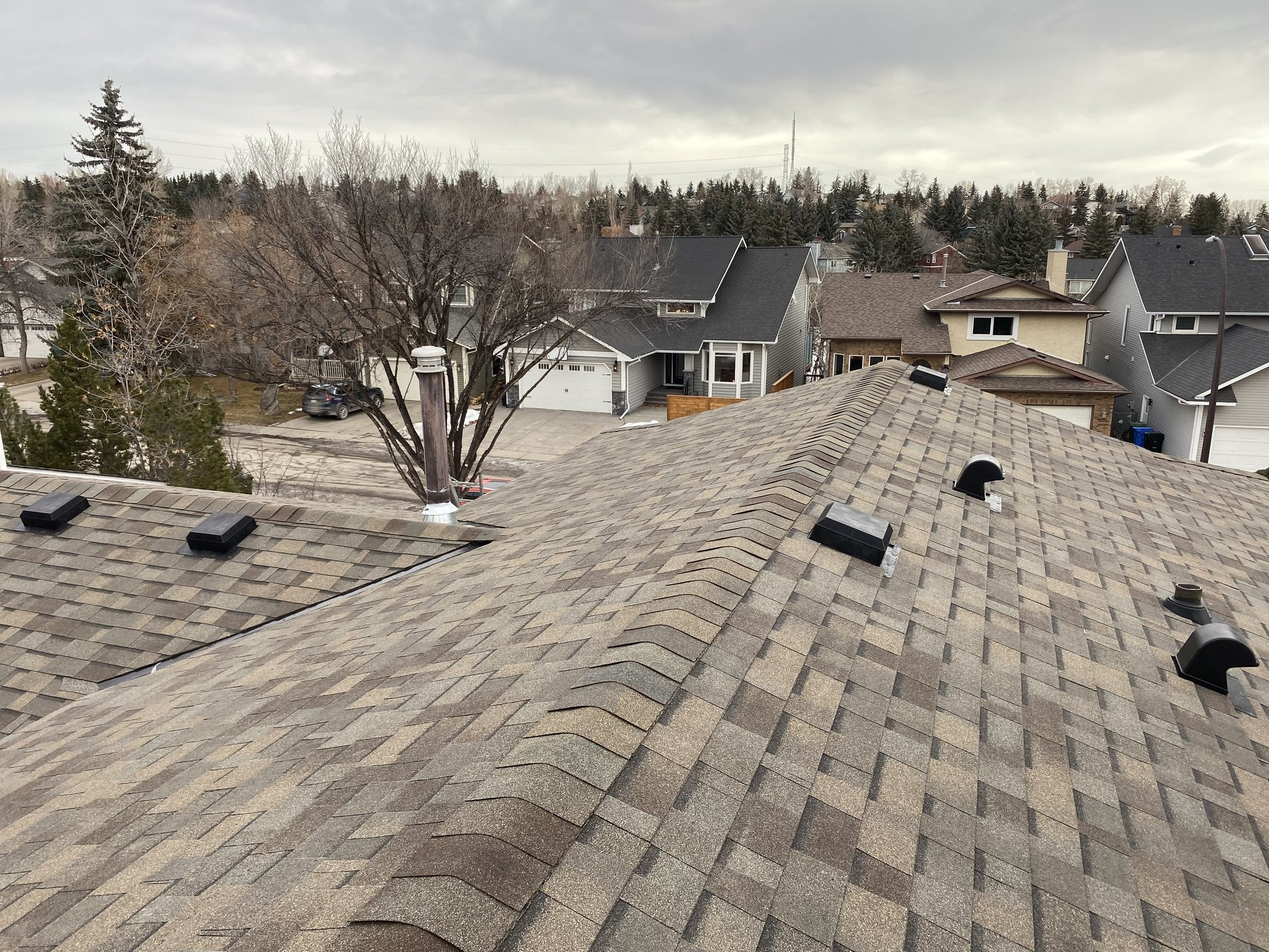
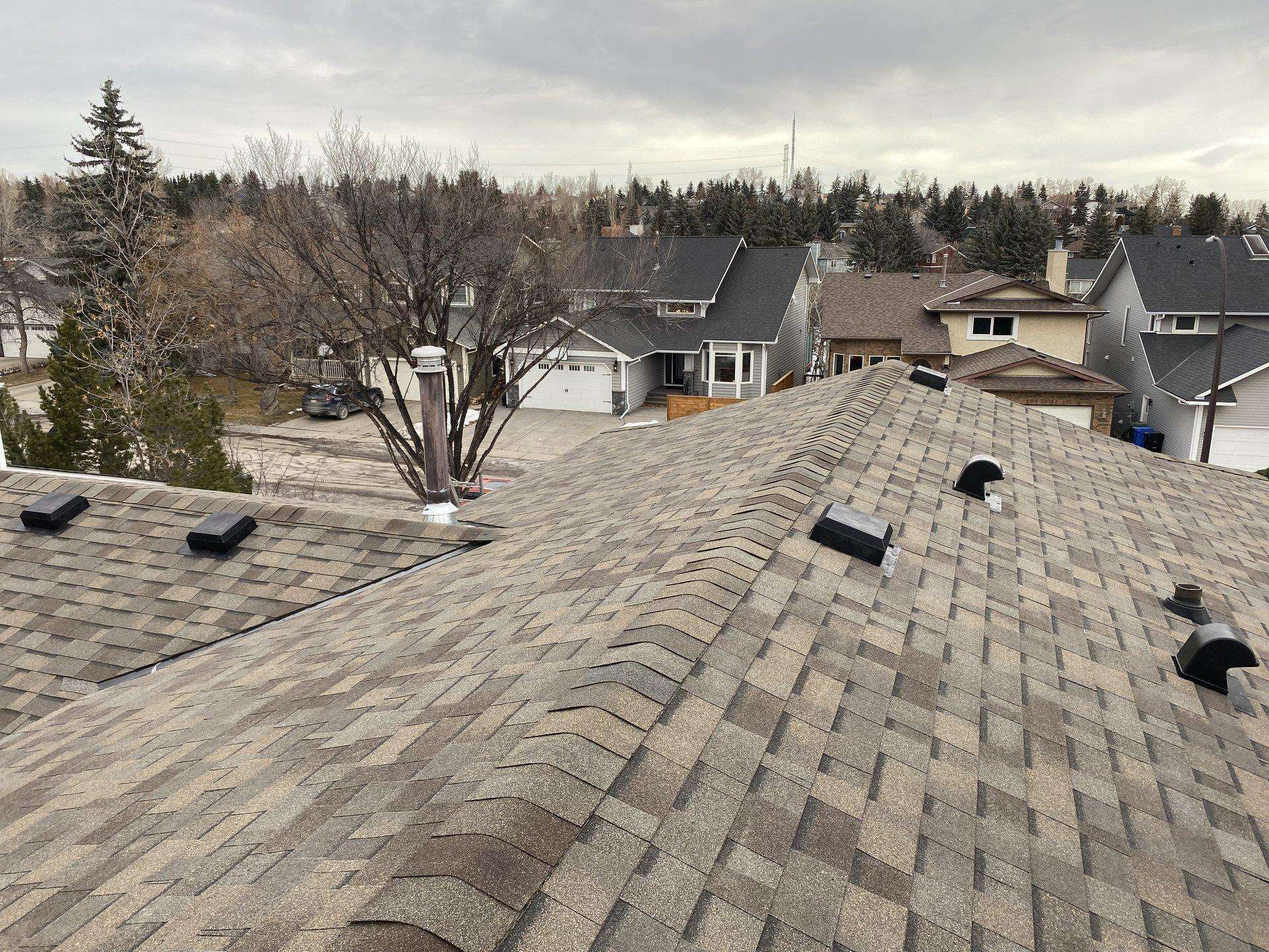
SEO + performance fixes
- index.html: lang="en-CA", remove broken GTM/GA placeholder scripts,
  fix "BBB A+ rated" -> "BBB A Rating" (matches site copy), add
  og:url, og:site_name, og:locale, og:image:width/height
- public/og-image.png: generate 1200x630 banner from logo-full.png
  (53KB) so social shares (FB/LinkedIn/Twitter/iMessage) have a real
  preview image instead of broken
- App.tsx: lazy-load all routes via React.lazy + Suspense.
  Initial JS bundle dropped from 789KB to 329KB (-58%)
- Image optimization via jpegoptim + oxipng:
  hero-roofing.jpg 882KB -> 635KB
  calgary-homes.jpg 573KB -> 433KB
  red-seal-badge.png 258KB -> 197KB (used in header on every page)
  og-image.png 88KB -> 53KB
  Other photos -14% to -35% with no visible quality loss

diff --git a/src/App.tsx b/src/App.tsx
@@ -1,21 +1,23 @@
+import { lazy, Suspense } from "react";
 import { Toaster } from "@/components/ui/toaster";
 import { Toaster as Sonner } from "@/components/ui/sonner";
 import { TooltipProvider } from "@/components/ui/tooltip";
 import { QueryClient, QueryClientProvider } from "@tanstack/react-query";
 import { BrowserRouter, Routes, Route, Navigate } from "react-router-dom";
-import Index from "./pages/Index";
-import Services from "./pages/Services";
-import ServiceAreas from "./pages/ServiceAreas";
-import ServiceAreaLanding from "./pages/ServiceAreaLanding";
-import Estimate from "./pages/Estimate";
-import FAQ from "./pages/FAQ";
-import About from "./pages/About";
-import Contact from "./pages/Contact";
-import Privacy from "./pages/Privacy";
-import Terms from "./pages/Terms";
-import QRLanding from "./pages/QRLanding";
-import BookOnline from "./pages/BookOnline";
-import NotFound from "./pages/NotFound";
+
+const Index = lazy(() => import("./pages/Index"));
+const Services = lazy(() => import("./pages/Services"));
+const ServiceAreas = lazy(() => import("./pages/ServiceAreas"));
+const ServiceAreaLanding = lazy(() => import("./pages/ServiceAreaLanding"));
+const Estimate = lazy(() => import("./pages/Estimate"));
+const FAQ = lazy(() => import("./pages/FAQ"));
+const About = lazy(() => import("./pages/About"));
+const Contact = lazy(() => import("./pages/Contact"));
+const Privacy = lazy(() => import("./pages/Privacy"));
+const Terms = lazy(() => import("./pages/Terms"));
+const QRLanding = lazy(() => import("./pages/QRLanding"));
+const BookOnline = lazy(() => import("./pages/BookOnline"));
+const NotFound = lazy(() => import("./pages/NotFound"));
 
 const queryClient = new QueryClient();
 
@@ -24,29 +26,37 @@ if ("scrollRestoration" in window.history) {
   window.history.scrollRestoration = "manual";
 }
 
+const RouteFallback = () => (
+  <div className="min-h-dvh flex items-center justify-center bg-background">
+    <div className="h-8 w-8 rounded-full border-2 border-accent border-t-transparent animate-spin" />
+  </div>
+);
+
 const App = () => (
   <QueryClientProvider client={queryClient}>
     <TooltipProvider>
       <Toaster />
       <Sonner />
       <BrowserRouter>
-        <Routes>
-          <Route path="/" element={<Index />} />
-          <Route path="/services" element={<Services />} />
-          <Route path="/service-areas" element={<ServiceAreas />} />
-          <Route path="/service-areas/:areaSlug" element={<ServiceAreaLanding />} />
-          <Route path="/estimate" element={<Estimate />} />
-          <Route path="/book" element={<BookOnline />} />
-          <Route path="/booking" element={<Navigate to="/book" replace />} />
-          <Route path="/faq" element={<FAQ />} />
-          <Route path="/about" element={<About />} />
-          <Route path="/contact" element={<Contact />} />
-          <Route path="/privacy" element={<Privacy />} />
-          <Route path="/terms" element={<Terms />} />
-          <Route path="/go/:slug" element={<QRLanding />} />
-          {/* ADD ALL CUSTOM ROUTES ABOVE THE CATCH-ALL "*" ROUTE */}
-          <Route path="*" element={<NotFound />} />
-        </Routes>
+        <Suspense fallback={<RouteFallback />}>
+          <Routes>
+            <Route path="/" element={<Index />} />
+            <Route path="/services" element={<Services />} />
+            <Route path="/service-areas" element={<ServiceAreas />} />
+            <Route path="/service-areas/:areaSlug" element={<ServiceAreaLanding />} />
+            <Route path="/estimate" element={<Estimate />} />
+            <Route path="/book" element={<BookOnline />} />
+            <Route path="/booking" element={<Navigate to="/book" replace />} />
+            <Route path="/faq" element={<FAQ />} />
+            <Route path="/about" element={<About />} />
+            <Route path="/contact" element={<Contact />} />
+            <Route path="/privacy" element={<Privacy />} />
+            <Route path="/terms" element={<Terms />} />
+            <Route path="/go/:slug" element={<QRLanding />} />
+            {/* ADD ALL CUSTOM ROUTES ABOVE THE CATCH-ALL "*" ROUTE */}
+            <Route path="*" element={<NotFound />} />
+          </Routes>
+        </Suspense>
       </BrowserRouter>
     </TooltipProvider>
   </QueryClientProvider>

diff --git a/index.html b/index.html
@@ -1,17 +1,22 @@
 <!doctype html>
-<html lang="en">
+<html lang="en-CA">
   <head>
     <meta charset="UTF-8" />
     <meta name="viewport" content="width=device-width, initial-scale=1.0" />
     <title>Duckbill Roofing & Waterproofing | Calgary's Trusted Roofers</title>
-    <meta name="description" content="Expert roofing and waterproofing in Calgary, Alberta. BBB A+ rated with 5-year workmanship warranty. Get your free estimate today!" />
+    <meta name="description" content="Expert roofing and waterproofing in Calgary, Alberta. BBB A Rating with 5-year workmanship warranty. Get your free estimate today!" />
     <meta name="author" content="Duckbill Roofing & Waterproofing" />
     <meta name="keywords" content="roofing Calgary, waterproofing Calgary, roof repair Calgary, residential roofing Alberta, flat roof waterproofing" />
-    
+
     <meta property="og:title" content="Duckbill Roofing & Waterproofing | Calgary's Trusted Roofers" />
-    <meta property="og:description" content="Expert roofing and waterproofing in Calgary, Alberta. BBB A+ rated with 5-year workmanship warranty. Get your free estimate today!" />
+    <meta property="og:description" content="Expert roofing and waterproofing in Calgary, Alberta. BBB A Rating with 5-year workmanship warranty. Get your free estimate today!" />
     <meta property="og:type" content="website" />
+    <meta property="og:url" content="https://duckbillroofing.ca/" />
+    <meta property="og:site_name" content="Duckbill Roofing & Waterproofing" />
+    <meta property="og:locale" content="en_CA" />
     <meta property="og:image" content="https://duckbillroofing.ca/og-image.png" />
+    <meta property="og:image:width" content="1200" />
+    <meta property="og:image:height" content="630" />
 
     <link rel="icon" type="image/x-icon" href="/favicon.ico" />
     <link rel="icon" type="image/png" sizes="32x32" href="/favicon-32.png" />
@@ -21,29 +26,9 @@
     <meta name="twitter:card" content="summary_large_image" />
     <meta name="twitter:site" content="@DuckbillRoofing" />
     <meta name="twitter:image" content="https://duckbillroofing.ca/og-image.png" />
-
-    <!-- Google Tag Manager — replace GTM-XXXXXXX with your container ID -->
-    <script>(function(w,d,s,l,i){w[l]=w[l]||[];w[l].push({'gtm.start':
-    new Date().getTime(),event:'gtm.js'});var f=d.getElementsByTagName(s)[0],
-    j=d.createElement(s),dl=l!='dataLayer'?'&l='+l:'';j.async=true;j.src=
-    'https://www.googletagmanager.com/gtm.js?id='+i+dl;f.parentNode.insertBefore(j,f);
-    })(window,document,'script','dataLayer','GTM-XXXXXXX');</script>
-
-    <!-- GA4 — replace G-XXXXXXXXXX with your measurement ID -->
-    <script async src="https://www.googletagmanager.com/gtag/js?id=G-XXXXXXXXXX"></script>
-    <script>
-      window.dataLayer = window.dataLayer || [];
-      function gtag(){dataLayer.push(arguments);}
-      gtag('js', new Date());
-      gtag('config', 'G-XXXXXXXXXX');
-    </script>
   </head>
 
   <body>
-    <!-- Google Tag Manager (noscript) — same container ID -->
-    <noscript><iframe src="https://www.googletagmanager.com/ns.html?id=GTM-XXXXXXX"
-    height="0" width="0" style="display:none;visibility:hidden"></iframe></noscript>
-
     <div id="root"></div>
     <script type="module" src="/src/main.tsx"></script>
   </body>
